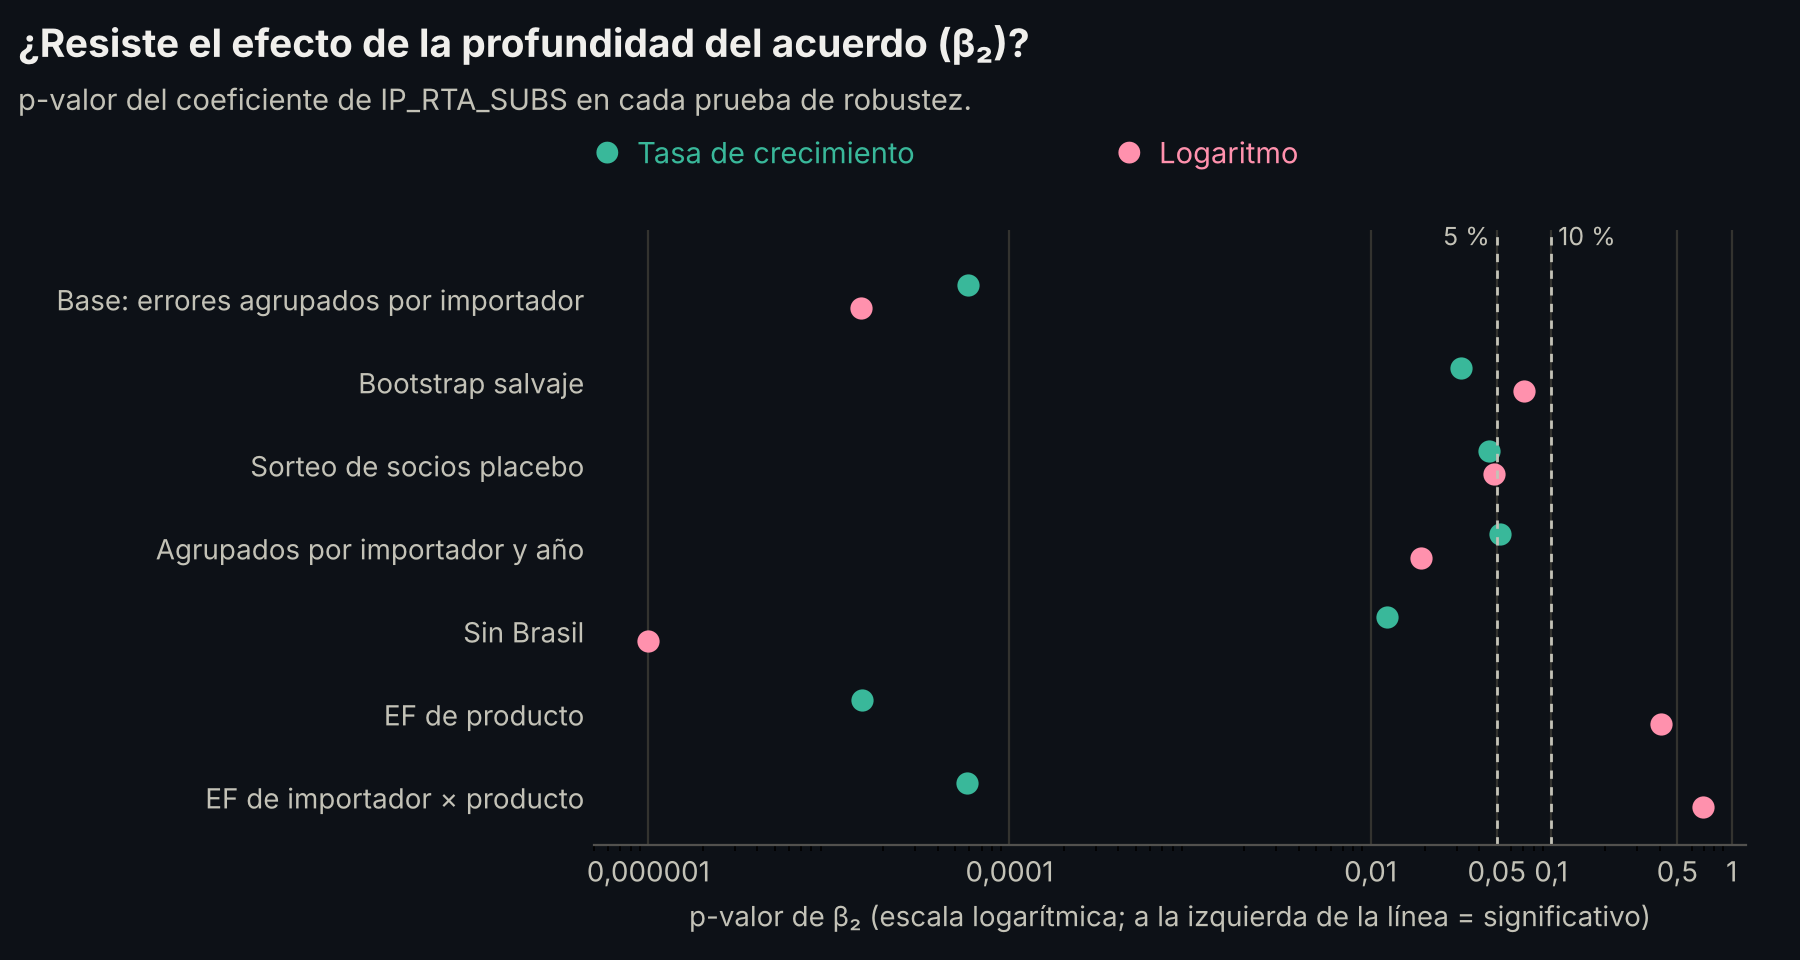
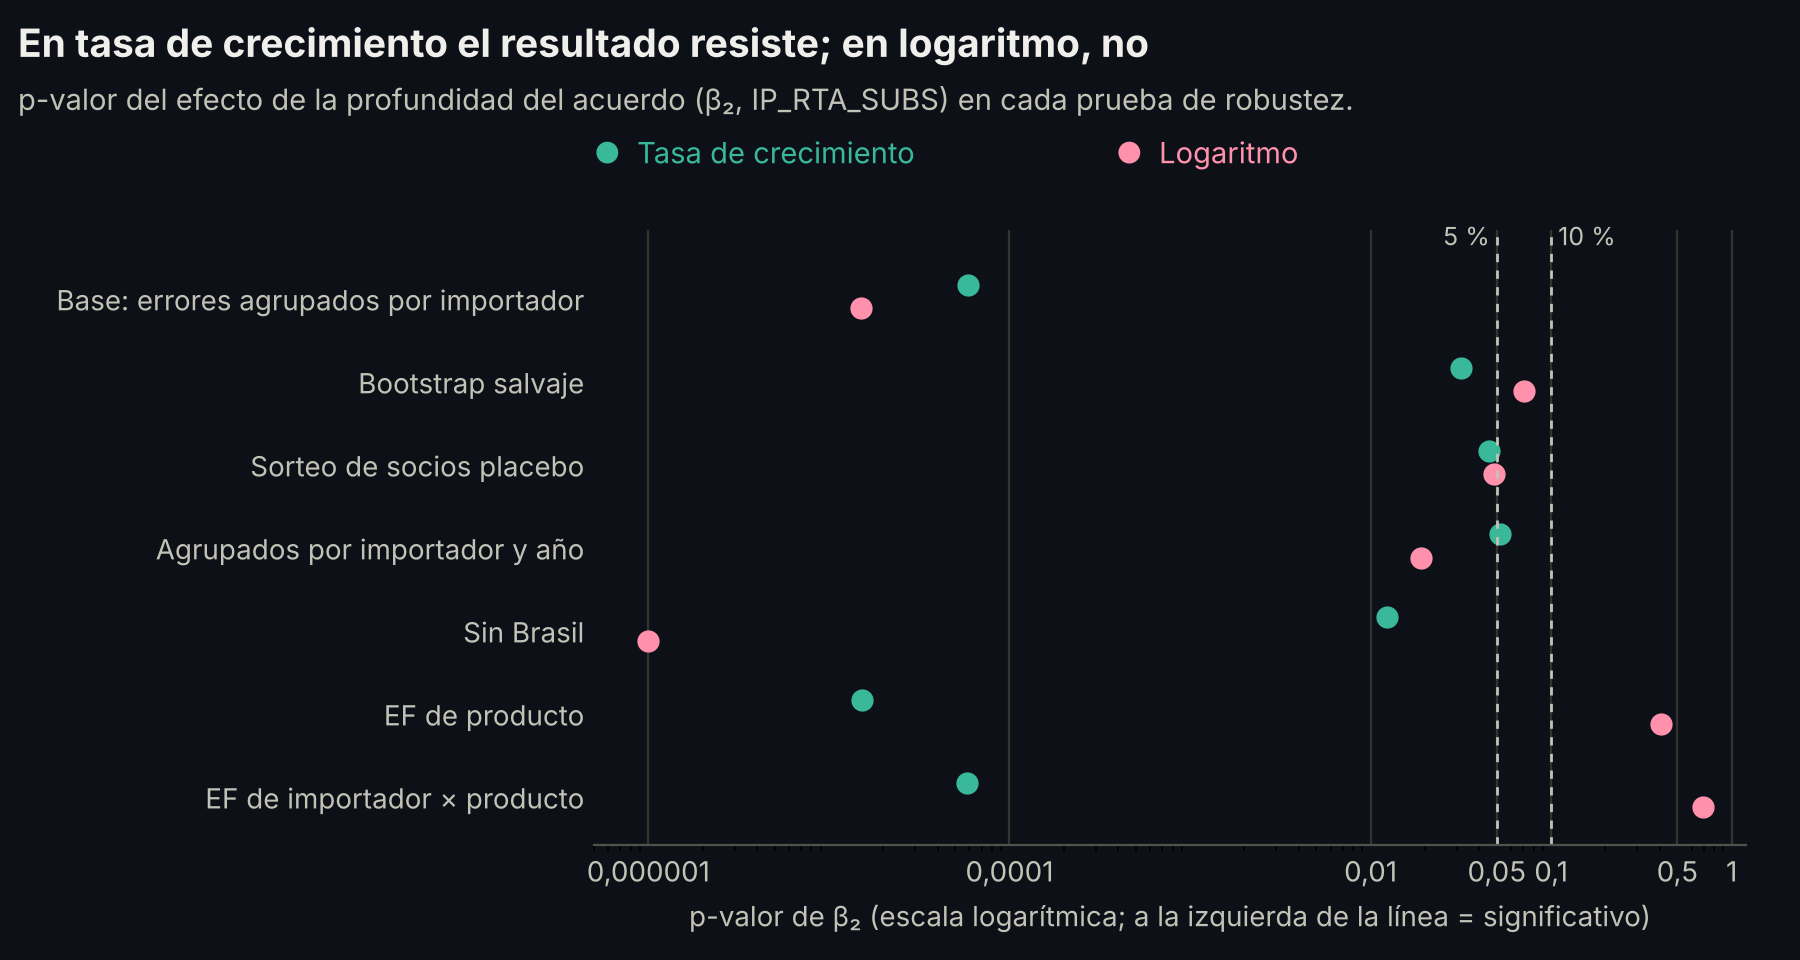
Mejoras: botón de citar (CITATION.cff), versión para imprimir de la página y títulos con la conclusión

Changed region(s): [[0.0933, 0.0938, 0.7467, 0.125], [0.0, 0.0312, 0.6533, 0.0625]]

diff --git a/docs/index.html b/docs/index.html
@@ -99,6 +99,24 @@ tr.igual td { background: color-mix(in srgb, var(--s1) 14%, transparent); }
 .steps li::before { content: counter(s); display: inline-grid; place-items: center; width: 26px; height: 26px; border-radius: 50%; background: var(--s3); color: #fff; font-weight: 700; font-size: 14px; margin-right: 8px; }
 code { font-family: ui-monospace, SFMono-Regular, Menlo, Consolas, monospace; font-size: 14px; background: var(--code); padding: 1px 5px; border-radius: 4px; }
 footer { margin-top: 56px; padding: 28px 0 48px; border-top: 1px solid var(--line); font-size: 14px; color: var(--text2); }
+/* Versión para imprimir o guardar en PDF */
+@media print {
+  @page { size: A4; margin: 14mm 12mm; }
+  :root { --bg: #ffffff; --panel: #ffffff; }
+  body { background: #fff !important; font-size: 11pt; }
+  * { -webkit-print-color-adjust: exact; print-color-adjust: exact; }
+  header { padding: 18px 0 16px !important; }
+  nav.toc, .btns, .controls, .slider, .elegir, #p-lista, .tip, footer .btn { display: none !important; }
+  section { padding: 14px 0 0 !important; }
+  .card, .kpi, .respuesta, .explica, .big-answer, table, .steps li, .consulta, .dl .card { break-inside: avoid; }
+  h2, h3, .sub, section > p { break-after: avoid; }
+  section { break-inside: avoid; }
+  #r-explica { display: none !important; }
+  h2 { font-size: 16pt; }
+  .card { box-shadow: none; }
+  a { color: inherit; text-decoration: none; }
+  .tw { overflow: visible; }
+}
 </style>
 </head>
 <body>

diff --git a/resultados/figuras.py b/resultados/figuras.py
@@ -70,9 +70,8 @@ for modo, t in TEMAS.items():
                     fontsize=9.5, color=t["texto"])
     estilo(ax, t, grilla="y")
     ax.set_xticks(med["Año"])
-    titulo(fig, t, "Medidas de política industrial de los 12 principales socios de Paraguay",
-           "Cantidad de medidas nuevas por año (Global Trade Alert, 2012–2022). "
-           "Total: 11.104; desde 2020, el salto.")
+    titulo(fig, t, "En 2020, los socios de Paraguay casi triplicaron sus medidas de política industrial",
+           "Medidas nuevas por año de los 12 principales destinos (Global Trade Alert, 2012–2022). Total: 11.104.")
     guardar(fig, "medidas_por_anio", modo)
 
 # ---------------------------------------------------------------- 2. Efecto principal
@@ -109,8 +108,8 @@ for modo, t in TEMAS.items():
         ax.xaxis.set_major_formatter(matplotlib.ticker.FuncFormatter(coma))
         ax.set_title(nombre_panel, fontsize=11, color=t["texto"], loc="left", pad=8)
         estilo(ax, t)
-    titulo(fig, t, "Efecto de una medida del socio sobre las exportaciones de Paraguay",
-           "Coeficientes e intervalos de confianza del 95 % (errores agrupados por importador).")
+    titulo(fig, t, "Sin reglas sobre subsidios, una medida del socio frena las exportaciones; con el MERCOSUR, no",
+           "Efecto de una medida del socio sobre las exportaciones de Paraguay. Coeficientes e intervalos del 95 %.")
     fig.text(0.17, 0.83, "●  Socio sin disciplinas sobre subsidios (β₁)", color=t["s1"], fontsize=10.5)
     fig.text(0.58, 0.83, "●  Socio del Mercosur (β₁ + β₂/3)", color=t["s2"], fontsize=10.5)
     guardar(fig, "efecto_principal", modo)
@@ -149,8 +148,8 @@ for modo, t in TEMAS.items():
     ax.set_xlabel("p-valor de β₂ (escala logarítmica; a la izquierda de la línea = significativo)",
                   color=t["texto2"], fontsize=10)
     estilo(ax, t)
-    titulo(fig, t, "¿Resiste el efecto de la profundidad del acuerdo (β₂)?",
-           "p-valor del coeficiente de IP_RTA_SUBS en cada prueba de robustez.")
+    titulo(fig, t, "En tasa de crecimiento el resultado resiste; en logaritmo, no",
+           "p-valor del efecto de la profundidad del acuerdo (β₂, IP_RTA_SUBS) en cada prueba de robustez.")
     fig.text(0.33, 0.83, "●  Tasa de crecimiento", color=t["s1"], fontsize=10.5)
     fig.text(0.62, 0.83, "●  Logaritmo", color=t["s2"], fontsize=10.5)
     guardar(fig, "robustez_pvalores", modo)
@@ -174,8 +173,8 @@ for modo, t in TEMAS.items():
     ax.set_xlabel("Variación de las exportaciones de Paraguay a Brasil (%)", color=t["texto2"],
                   fontsize=10)
     estilo(ax, t)
-    titulo(fig, t, "Simulación GTAP: subsidio de Brasil a 4 sectores (*)",
-           "Los sectores subsidiados caen; recortar el subsidio en 1/3 amortigua la caída en ~25 %.")
+    titulo(fig, t, "Si Brasil subsidia, Paraguay le vende menos en esos sectores; recortarlo amortigua la caída",
+           "Simulación GTAP: subsidio del 10 % de Brasil a 4 sectores (*). Recortarlo en 1/3 reduce la caída ~25 %.")
     fig.text(0.27, 0.83, "■  S1: subsidio del 10 %", color=t["s1"], fontsize=10.5)
     fig.text(0.55, 0.83, "■  S3: subsidio recortado en 1/3", color=t["s2"], fontsize=10.5)
     guardar(fig, "gtap", modo)
